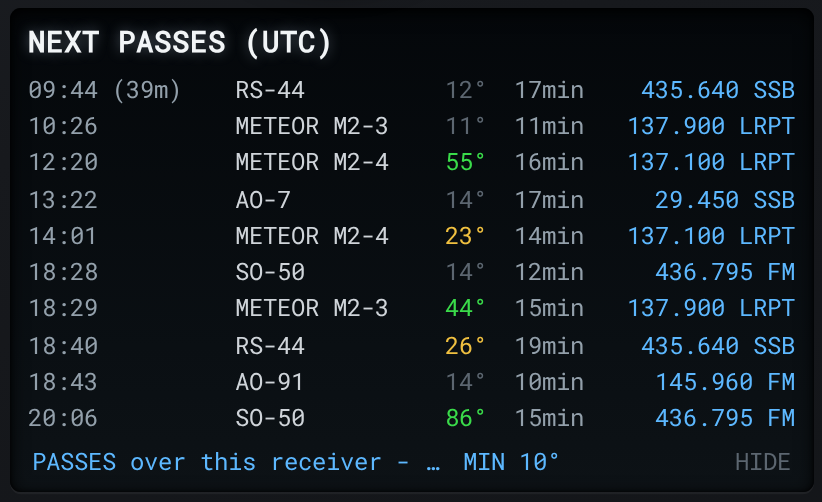
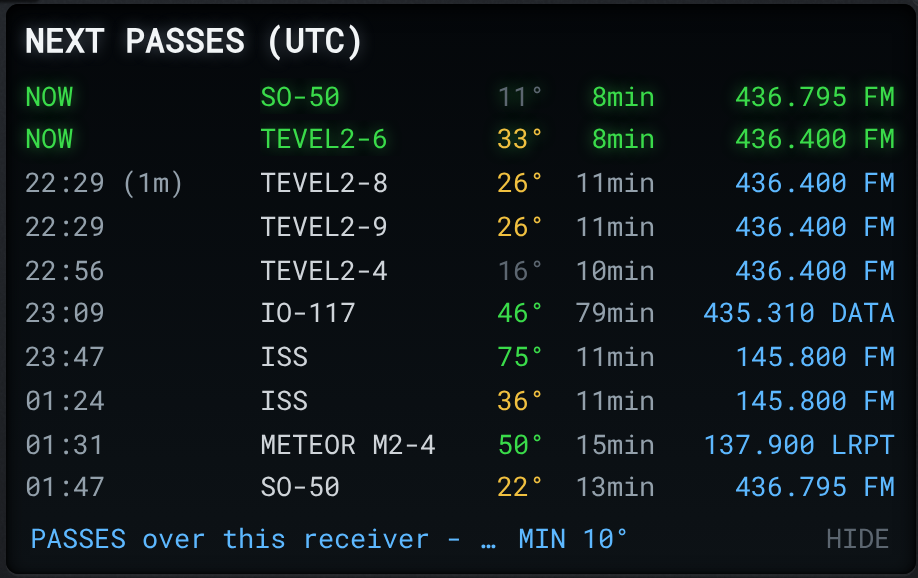
docs: current satellite screenshots
New shot of the tracking window with a pinned bird, and the LCD pass
list retaken with the 0.10.0 satellite list and frequencies.

diff --git a/README.md b/README.md
@@ -151,6 +151,8 @@ glows green. Click a row to tune. The HAM and WX chips show or hide the
 amateur and weather birds. Drag the window by its header, resize it by
 the corner. It remembers where you left it.
 
+![satellite tracking](docs/screenshot-satwin.png)
+
 The list has the popular active birds. FM: ISS, SO-50, AO-91, PO-101,
 AO-27, AO-123 and the nine TEVEL2 satellites (they share 436.400 and
 take turns). Linear: RS-44, AO-7 with its 10 m downlink you can hear on
